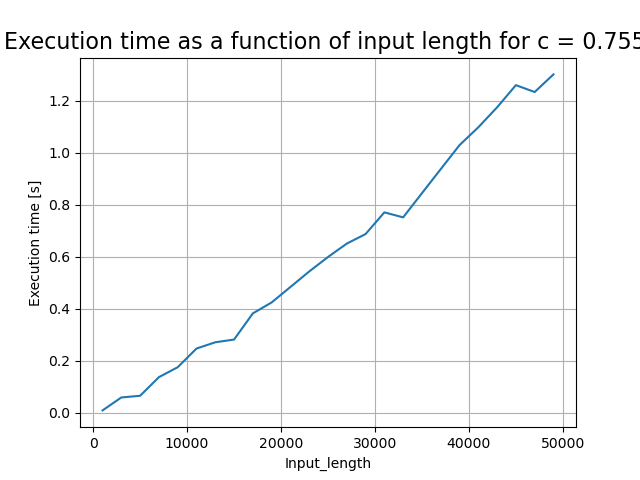
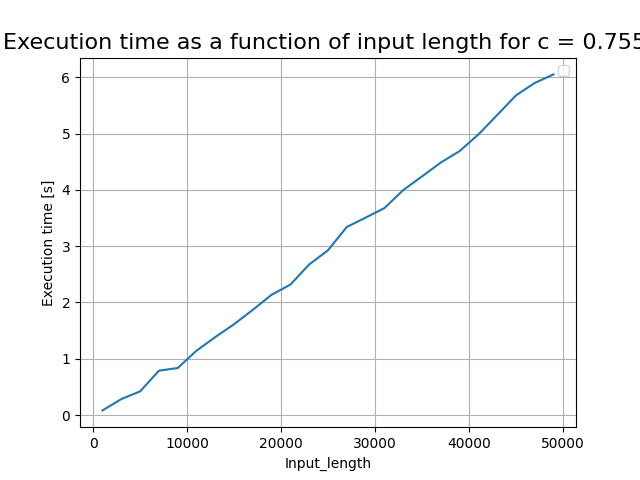
test time

diff --git a/lab3/code/tests.py b/lab3/code/tests.py
@@ -26,15 +26,16 @@ class tests:
       tree.displaying = True
       tree.insert_list(self.input_data)
       tree.display()
-    def plot(self, x: list, y: list, x_label: str, y_label: str, plot_header: str):
+    def plot(self, x: list, y: list, x_label: str, y_label: str, plot_header: str,lables: list = None):
         fig = plt.figure()
         plt.title(plot_header, fontsize='16')
 
         if type(y[0]) == list:
-          plt.plot(x,y[0])
-          plt.plot(x,y[1])
+          plt.plot(x,y[0],label =lables[0])
+          plt.plot(x,y[1],lable=lables[1])
         else:
-          plt.plot(x, y)
+          plt.plot(x, y, label="")
+        plt.legend(loc="upper right")
         plt.xlabel(x_label)
         plt.ylabel(y_label)
         plt.grid()
@@ -47,7 +48,7 @@ class tests:
         print("Testing a normal bst with varying input length")
         for length in range(self.length_range[0], self.length_range[1], self.length_interval):
             print(f"Testing for a normal BST with input length {length}")
-            tree = binary_tree(0.5)
+            tree = standard_bst()
             tree.uses_balance = False
             data = list(np.random.randint(-length, length, length))
             time_1 = time.time()
@@ -119,14 +120,13 @@ class tests:
       data = sorted(data)
       countLoops = 0
       for c in list(np.arange(self.c_range[0], self.c_range[1], self.c_interval)):
-        print(f"Loop {countLoops}")
+        print(f"Testing for c = {c}")
         tree = binary_tree(c)
         time_1 = time.time()
         tree.insert_list(data)
         time_2 = time.time()
         results_sorting.append(time_2-time_1)
-        tree = binary_tree(c)
-        tree.uses_balance = False
+        tree = standard_bst()
         time_1 = time.time()
         tree.insert_list(data)
         time_2 = time.time()
@@ -135,7 +135,7 @@ class tests:
       x = list(np.arange(self.c_range[0], self.c_range[1], self.c_interval))
       y = [results_sorting, results_not_sorting]
       self.plot(x, y,
-                "c value", "Execution time [s]", f"Execution time as a function of c for a preorderd list")
+                "c value", "Execution time [s]", f"Execution time as a function of c for a preorderd list",lables=["Sorted","Not sorted"])
     def test_semi_sorted_list(self):
       print("*"*100)
       print("Testing semi sorted list")
@@ -147,14 +147,13 @@ class tests:
       data = data[len(data)//2:]+data[:len(data)//2]
       countLoops = 0
       for c in list(np.arange(self.c_range[0], self.c_range[1], self.c_interval)):
-        print(f"Loop {countLoops}")
+        print(f"Testing for c = {c}")
         tree = binary_tree(c)
         time_1 = time.time()
         tree.insert_list(data)
         time_2 = time.time()
         results_sorting.append(time_2-time_1)
-        tree = binary_tree(c)
-        tree.uses_balance = False
+        tree = standard_bst()
         time_1 = time.time()
         tree.insert_list(data)
         time_2 = time.time()
@@ -163,7 +162,7 @@ class tests:
       x = list(np.arange(self.c_range[0], self.c_range[1], self.c_interval))
       y = [results_sorting, results_not_sorting]
       self.plot(x, y,
-                "c value", "Execution time [s]", f"Execution time as a function of c for a semi sorted list")
+                "c value", "Execution time [s]", f"Execution time as a function of c for a semi sorted list",lables=["Sorted","Not sorted"])
     def test_reverse_sorted_list(self):
       print("*"*100)
       print("Testing reverse sorted list")
@@ -175,14 +174,13 @@ class tests:
       data = data[::-1]
       countLoops = 0
       for c in list(np.arange(self.c_range[0], self.c_range[1], self.c_interval)):
-        print(f"Loop {countLoops}")
+        print(f"Testing for c = {c}")
         tree = binary_tree(c)
         time_1 = time.time()
         tree.insert_list(data)
         time_2 = time.time()
         results_sorting.append(time_2-time_1)
-        tree = binary_tree(c)
-        tree.uses_balance = False
+        tree = standard_bst()
         time_1 = time.time()
         tree.insert_list(data)
         time_2 = time.time()
@@ -191,7 +189,7 @@ class tests:
       x = list(np.arange(self.c_range[0], self.c_range[1], self.c_interval))
       y = [results_sorting, results_not_sorting]
       self.plot(x, y,
-                "c value", "Execution time [s]", f"Execution time as a function of c for a reverse sorted list")
+                "c value", "Execution time [s]", f"Execution time as a function of c for a reverse sorted list",lables=["Sorted","Not sorted"])
     def test_random_list(self):
       print("*"*100)
       print("Testing random list")
@@ -202,14 +200,13 @@ class tests:
       data = sorted(list(np.random.randint(-length, length, length)))
       countLoops = 0
       for c in list(np.arange(self.c_range[0], self.c_range[1], self.c_interval)):
-        print(f"Loop {countLoops}")
+        print(f"Testing for c = {c}")
         tree = binary_tree(c)
         time_1 = time.time()
         tree.insert_list(data)
         time_2 = time.time()
         results_sorting.append(time_2-time_1)
-        tree = binary_tree(c)
-        tree.uses_balance = False
+        tree = standard_bst()
         time_1 = time.time()
         tree.insert_list(data)
         time_2 = time.time()
@@ -218,7 +215,7 @@ class tests:
       x = list(np.arange(self.c_range[0], self.c_range[1], self.c_interval))
       y = [results_sorting, results_not_sorting]
       self.plot(x, y,
-                "c value", "Execution time [s]", f"Execution time as a function of c for a random list")
+                "c value", "Execution time [s]", f"Execution time as a function of c for a random list",lables=["Sorted","Not sorted"])
     def test_constant_c_varying_length(self):
         print("*"*100)
         c = self.c_range[1]+self.c_range[0]

diff --git a/lab3/code/binary_tree.py b/lab3/code/binary_tree.py
@@ -1,6 +1,5 @@
 
 
-
 class binary_tree_node:
     def __init__(self, value: int = None, number_of_children: list = None, parent=None, left=None, right=None) -> None:
         self.value = value
@@ -60,33 +59,33 @@ class binary_tree_node:
         if self.right:
             ret = ret == self.right.is_valid(c) == True
         return ret
-    
-    def search(self,value):
-      if self.value == value:
-        return self
-      if value > self.value:
-        if self.right:
-          return self.right.search(value)
+
+    def search(self, value):
+        if self.value == value:
+            return self
+        if value > self.value:
+            if self.right:
+                return self.right.search(value)
+            return None
+        if self.left:
+            return self.left.search(value)
         return None
-      if self.left:
-        return self.left.search(value)
-      return None
-    
+
     def find_extreme(self):
         if self == None:
-          print("Bruh")
+            print("Bruh")
         if self.left == self.right == None:
             return self, 0
         left_best, left_depth, right_best, right_depth = None, 0, None, 0
-        if self.left!=None:
+        if self.left != None:
             left_best, left_depth = self.left.find_extreme()
-        if self.right!=None:
+        if self.right != None:
             right_best, right_depth = self.right.find_extreme()
         if not left_best or not right_best:
-          if left_best:
-            return left_best,left_depth+1
-          else:
-            return right_best,right_depth+1
+            if left_best:
+                return left_best, left_depth+1
+            else:
+                return right_best, right_depth+1
         if left_depth > right_depth:
             best = left_best
             best_depth = left_depth+1
@@ -241,10 +240,6 @@ class binary_tree:
     def in_order_walk(self):
         return self.root.in_order_walk()
 
-
-
-
-
     def rebalance_tree(c, node, return_type="node"):
         """
             Balances a BST using insertion of a balanced binary search tree
@@ -277,6 +272,32 @@ class binary_tree:
     def display(self):
         if self.root:
             self.root.display()
-
-
+class standard_bst:
+  def __init__(self) -> None:
+    self.root = None
+  def insert(self, value):
+    if not self.root:
+      self.root = binary_tree_node(value)
+      return
+    current_node = self.root
+    while 1:
+      if value > current_node.value:
+        if not current_node.right:
+          break
+        current_node = current_node.right
+      else:
+        if not current_node.left:
+          break
+        current_node = current_node.left
+    node = binary_tree_node(value, parent=current_node)
+    if value > current_node.value:
+      current_node.right = node
+    else:
+      current_node.left = node
+  def display(self):
+    if self.root:
+      self.root.display()
+  def insert_list(self,l):
+    for el in l:
+      self.insert(el)
 
